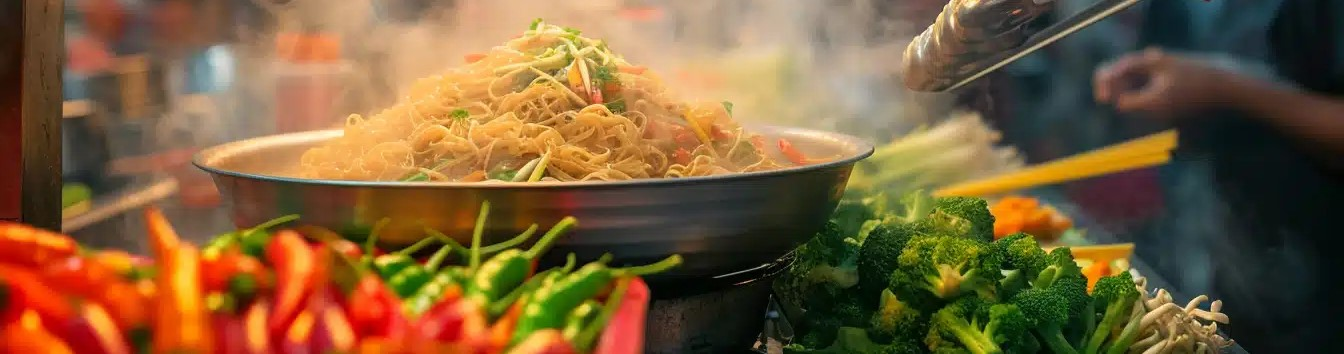
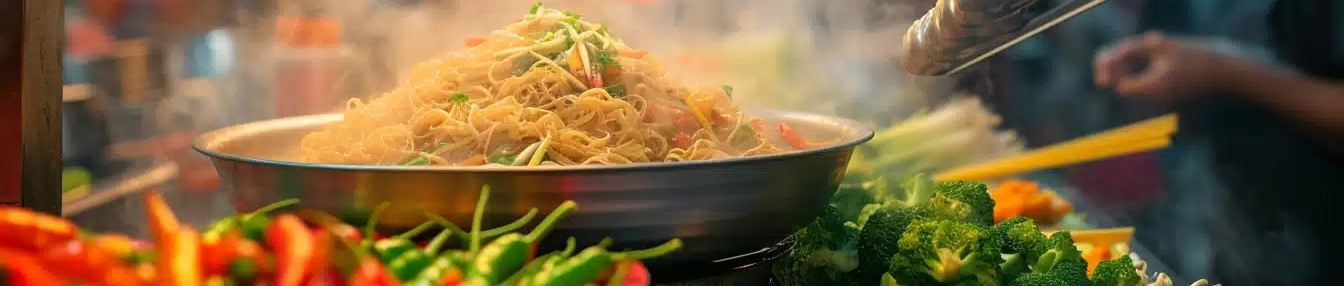
latest version update

diff --git a/app/assets/stylesheets/lunch.scss b/app/assets/stylesheets/lunch.scss
@@ -3,6 +3,7 @@
   width: 100%;
   position: relative;
   overflow: hidden; /* Assurez-vous que tout contenu en débordement est masqué */
+  padding-top: 120px;
 }
 
 .lunch-image {
@@ -21,13 +22,6 @@
   height: 100%;
   background: linear-gradient(to bottom, rgba(0, 0, 0, 0.6), transparent);
   z-index: 1;
-}
-
-
-.lunch-banner {
-  position: relative;
-  text-align: center;
-  color: white;
 }
 
 .lunch-banner .lunch-image {

diff --git a/app/assets/stylesheets/contact.scss b/app/assets/stylesheets/contact.scss
@@ -30,6 +30,7 @@
   width: 100%;
   position: relative;
   overflow: hidden; /* Assurez-vous que tout contenu en débordement est masqué */
+  padding-top: 130px;
 }
 
 .contact-image {
@@ -66,4 +67,3 @@
   align-items: center;
   height: 100%;
 }
-

diff --git a/app/assets/stylesheets/galerie.scss b/app/assets/stylesheets/galerie.scss
@@ -18,6 +18,5 @@
 }
 
 .photos-container {
-  margin-top: 30px !important; /* Le !important peut aider si le framework surcharge tes styles */
+  margin-top: 160px !important; /* Le !important peut aider si le framework surcharge tes styles */
 }
-

diff --git a/app/assets/stylesheets/plats.scss b/app/assets/stylesheets/plats.scss
@@ -2,6 +2,7 @@
   width: 100%;
   position: relative;
   overflow: hidden; /* Assurez-vous que tout contenu en débordement est masqué */
+  padding-top: 150px;
 }
 
 .platsignature-image {
